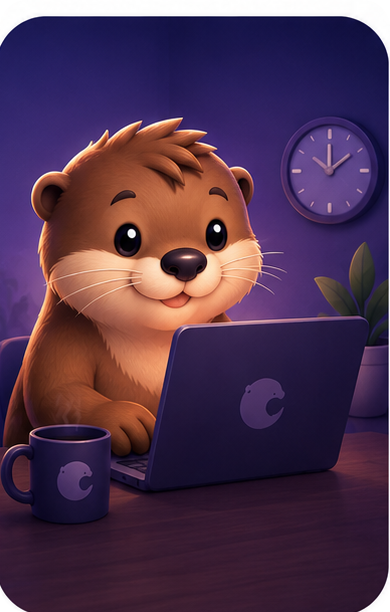
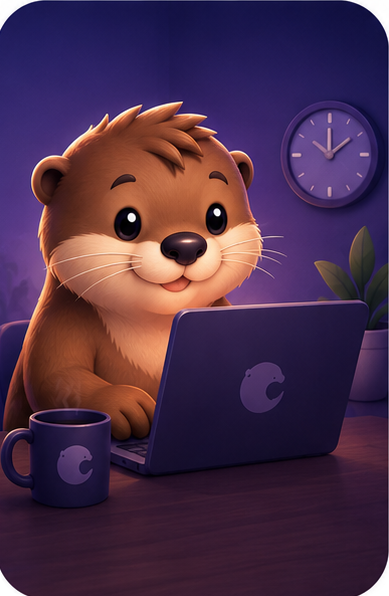
fix: white-frame trim on scene illustrations, billing/CRM config hints, insights completed status (#36)
1. Trim baked white frames from otter-focus/agenda/remind PNGs (16px top band +
   edge lines) - invisible on white, glaring on dark cards (empty states, headers).
2. Billing: 'not configured' now names the missing env var(s) - STRIPE_SECRET_KEY
   and/or STRIPE_PRICE_PRO (subscriptionsEnabled needs BOTH).
3. CRM: drop the misleading cloud 'coming soon' copy - availability is controlled
   by the operator setting SALESFORCE_/HUBSPOT_ OAuth env in either edition.
4. Insights: computeInsights now counts 'completed' bookings too (past meetings
   auto-flip to completed and were silently dropped from the page).

diff --git a/apps/web/app/(app)/settings/crm/page.tsx b/apps/web/app/(app)/settings/crm/page.tsx
@@ -2,7 +2,6 @@ import { CrmDisconnectButton } from "@/components/crm-manager";
 import { buttonVariants } from "@/components/ui/button";
 import { Card, CardBody, CardHeader } from "@/components/ui/card";
 import { getSession } from "@/lib/auth/session";
-import { isCloud } from "@/lib/billing/edition";
 import { cn } from "@/lib/cn";
 import { eq, getDb, schema } from "@dayotter/db";
 import { crmEnabledProviders } from "@dayotter/integrations";
@@ -140,9 +139,7 @@ export default async function CrmSettingsPage({
                       <Plus size={14} /> Connect
                     </Link>
                   ) : (
-                    <span className="text-xs text-[var(--color-faint)]">
-                      {isCloud ? "Coming soon" : "Not configured"}
-                    </span>
+                    <span className="text-xs text-[var(--color-faint)]">Not configured</span>
                   )}
                 </div>
               );
@@ -150,9 +147,9 @@ export default async function CrmSettingsPage({
           </div>
           {enabled.length === 0 ? (
             <p className="mt-4 text-xs text-[var(--color-faint)]">
-              {isCloud
-                ? "CRM sync isn't available on your plan yet - we're rolling out Salesforce and HubSpot connections. Check back soon."
-                : "No CRM is configured on this server. Set the provider's client id + secret (SALESFORCE_CLIENT_ID / HUBSPOT_CLIENT_ID and their secrets) in the environment to enable it."}
+              No CRM is configured on this server. Set a provider's OAuth app credentials -
+              SALESFORCE_CLIENT_ID + SALESFORCE_CLIENT_SECRET, or HUBSPOT_CLIENT_ID +
+              HUBSPOT_CLIENT_SECRET - in this server's environment to let people connect it.
             </p>
           ) : null}
         </CardBody>

diff --git a/apps/web/app/(app)/settings/billing/page.tsx b/apps/web/app/(app)/settings/billing/page.tsx
@@ -6,7 +6,7 @@ import { PRO_PRICE_USD, isCloud } from "@/lib/billing/edition";
 import { getEntitlements, primaryOrg } from "@/lib/billing/entitlements";
 import { FEATURE_LABEL, FEATURE_TIER, type Feature } from "@/lib/billing/features";
 import { seatCount } from "@/lib/billing/subscription";
-import { subscriptionsEnabled } from "@/lib/payments/stripe";
+import { paymentsEnabled, proPriceId, subscriptionsEnabled } from "@/lib/payments/stripe";
 import { Check, Heart } from "lucide-react";
 
 export const dynamic = "force-dynamic";
@@ -90,7 +90,11 @@ export default async function BillingPage() {
             <BillingActions plan={ent.plan} />
           ) : (
             <p className="text-sm text-[var(--color-faint)]">
-              Billing isn't configured on this server yet.
+              Billing isn't fully configured yet. Set{" "}
+              {[!paymentsEnabled && "STRIPE_SECRET_KEY", !proPriceId && "STRIPE_PRICE_PRO"]
+                .filter(Boolean)
+                .join(" and ")}{" "}
+              in this server's environment to enable subscriptions.
             </p>
           )}
         </CardBody>

diff --git a/apps/web/lib/booking/insights.ts b/apps/web/lib/booking/insights.ts
@@ -1,4 +1,4 @@
-import { and, eq, getDb, gte, lt, schema } from "@dayotter/db";
+import { and, eq, getDb, gte, inArray, lt, schema } from "@dayotter/db";
 import { DateTime } from "luxon";
 import { type FocusMetrics, computeFocusMetrics } from "./focus-insights";
 
@@ -38,7 +38,9 @@ export async function computeInsights(params: {
   const rows = await getDb().query.bookings.findMany({
     where: and(
       eq(schema.bookings.hostId, params.userId),
-      eq(schema.bookings.status, "confirmed"),
+      // Past meetings are auto-marked "completed" - a retrospective view needs both,
+      // otherwise everything before now silently drops out of the insights.
+      inArray(schema.bookings.status, ["confirmed", "completed"]),
       gte(schema.bookings.startsAt, from),
       lt(schema.bookings.startsAt, to),
     ),
